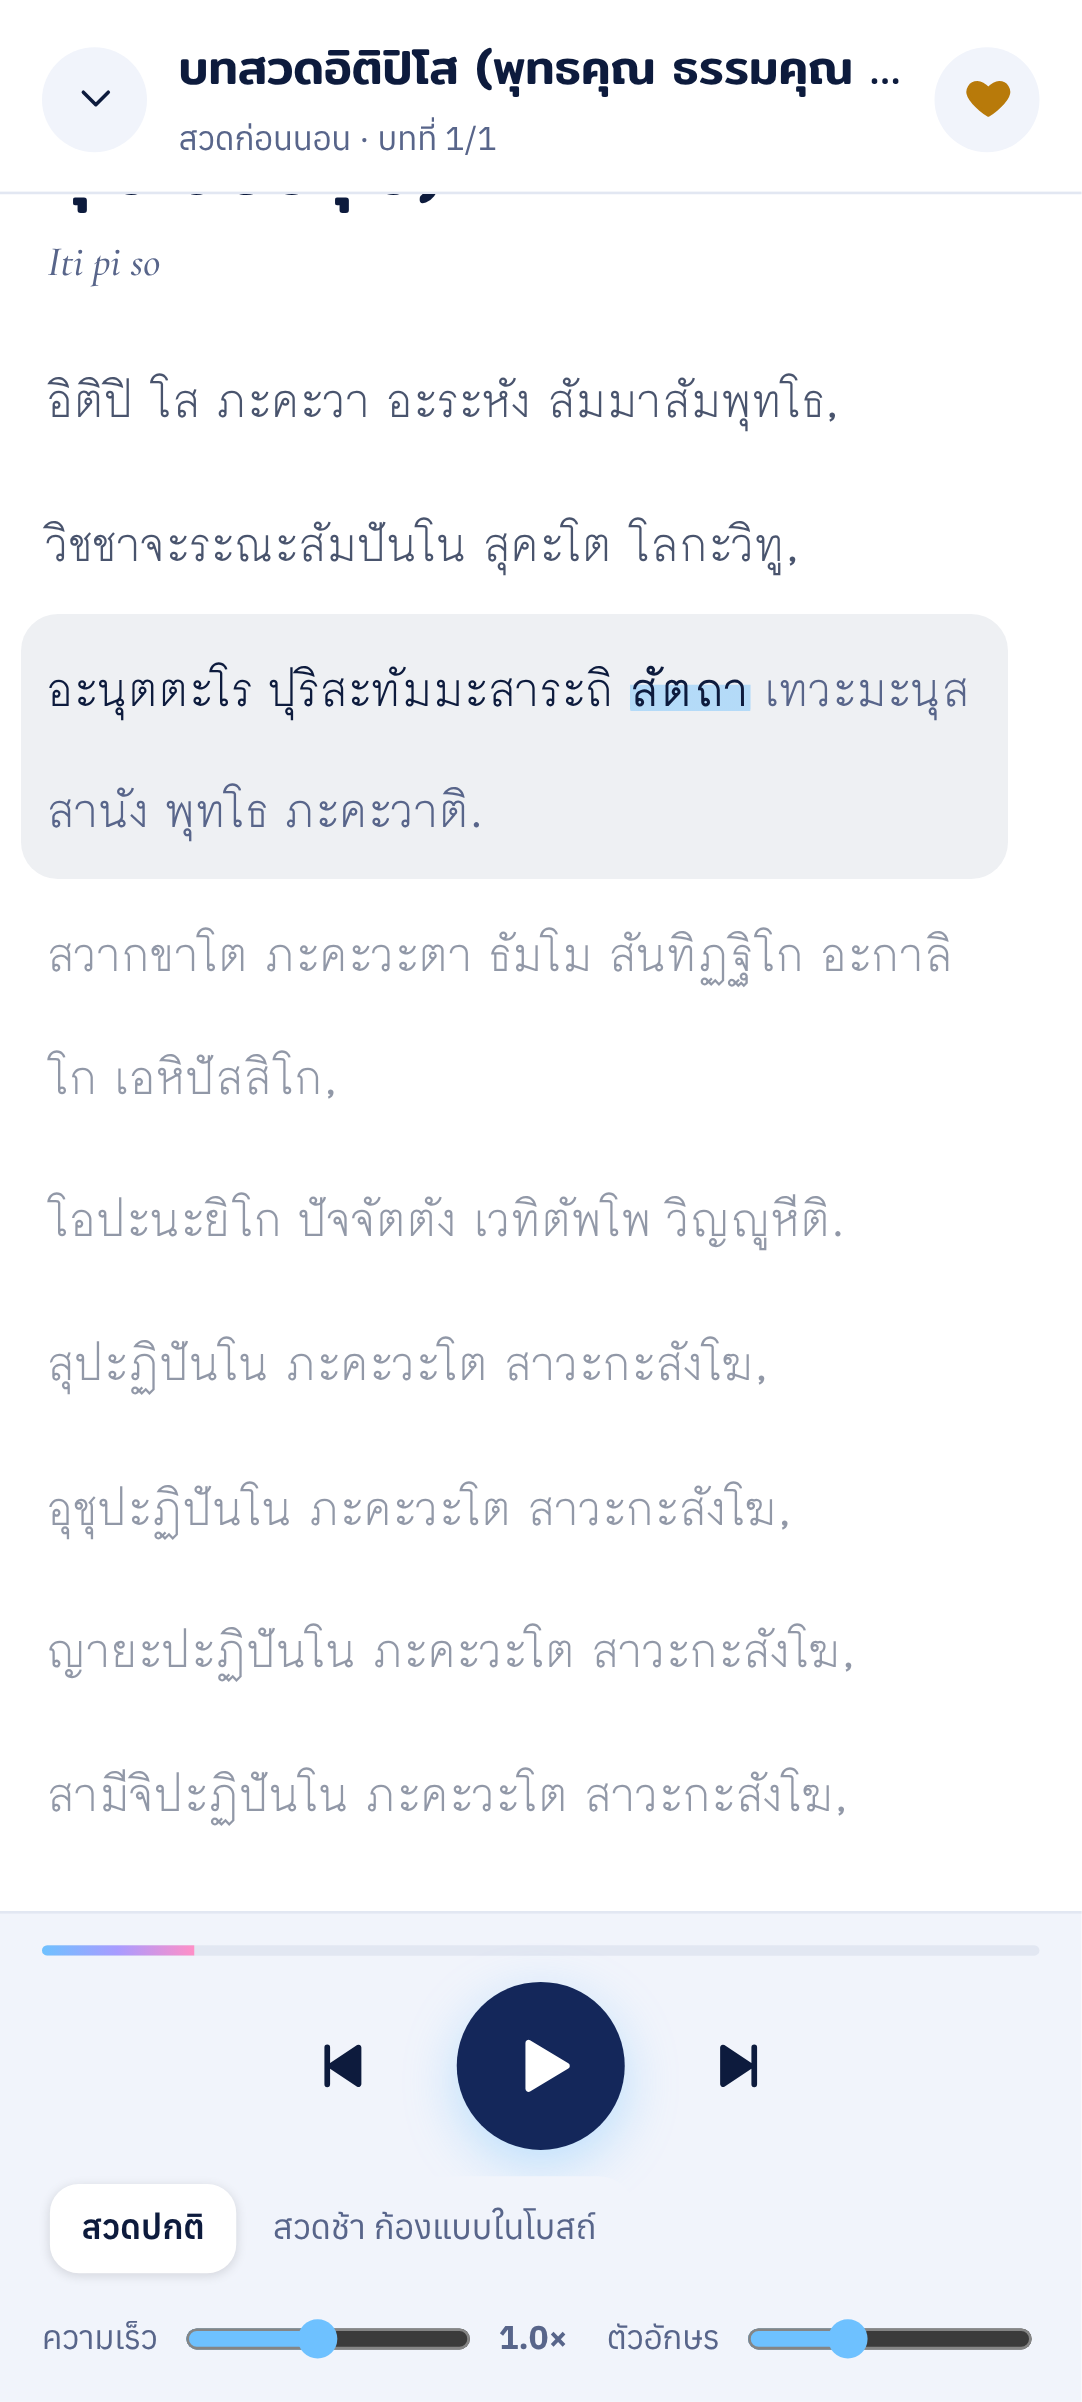
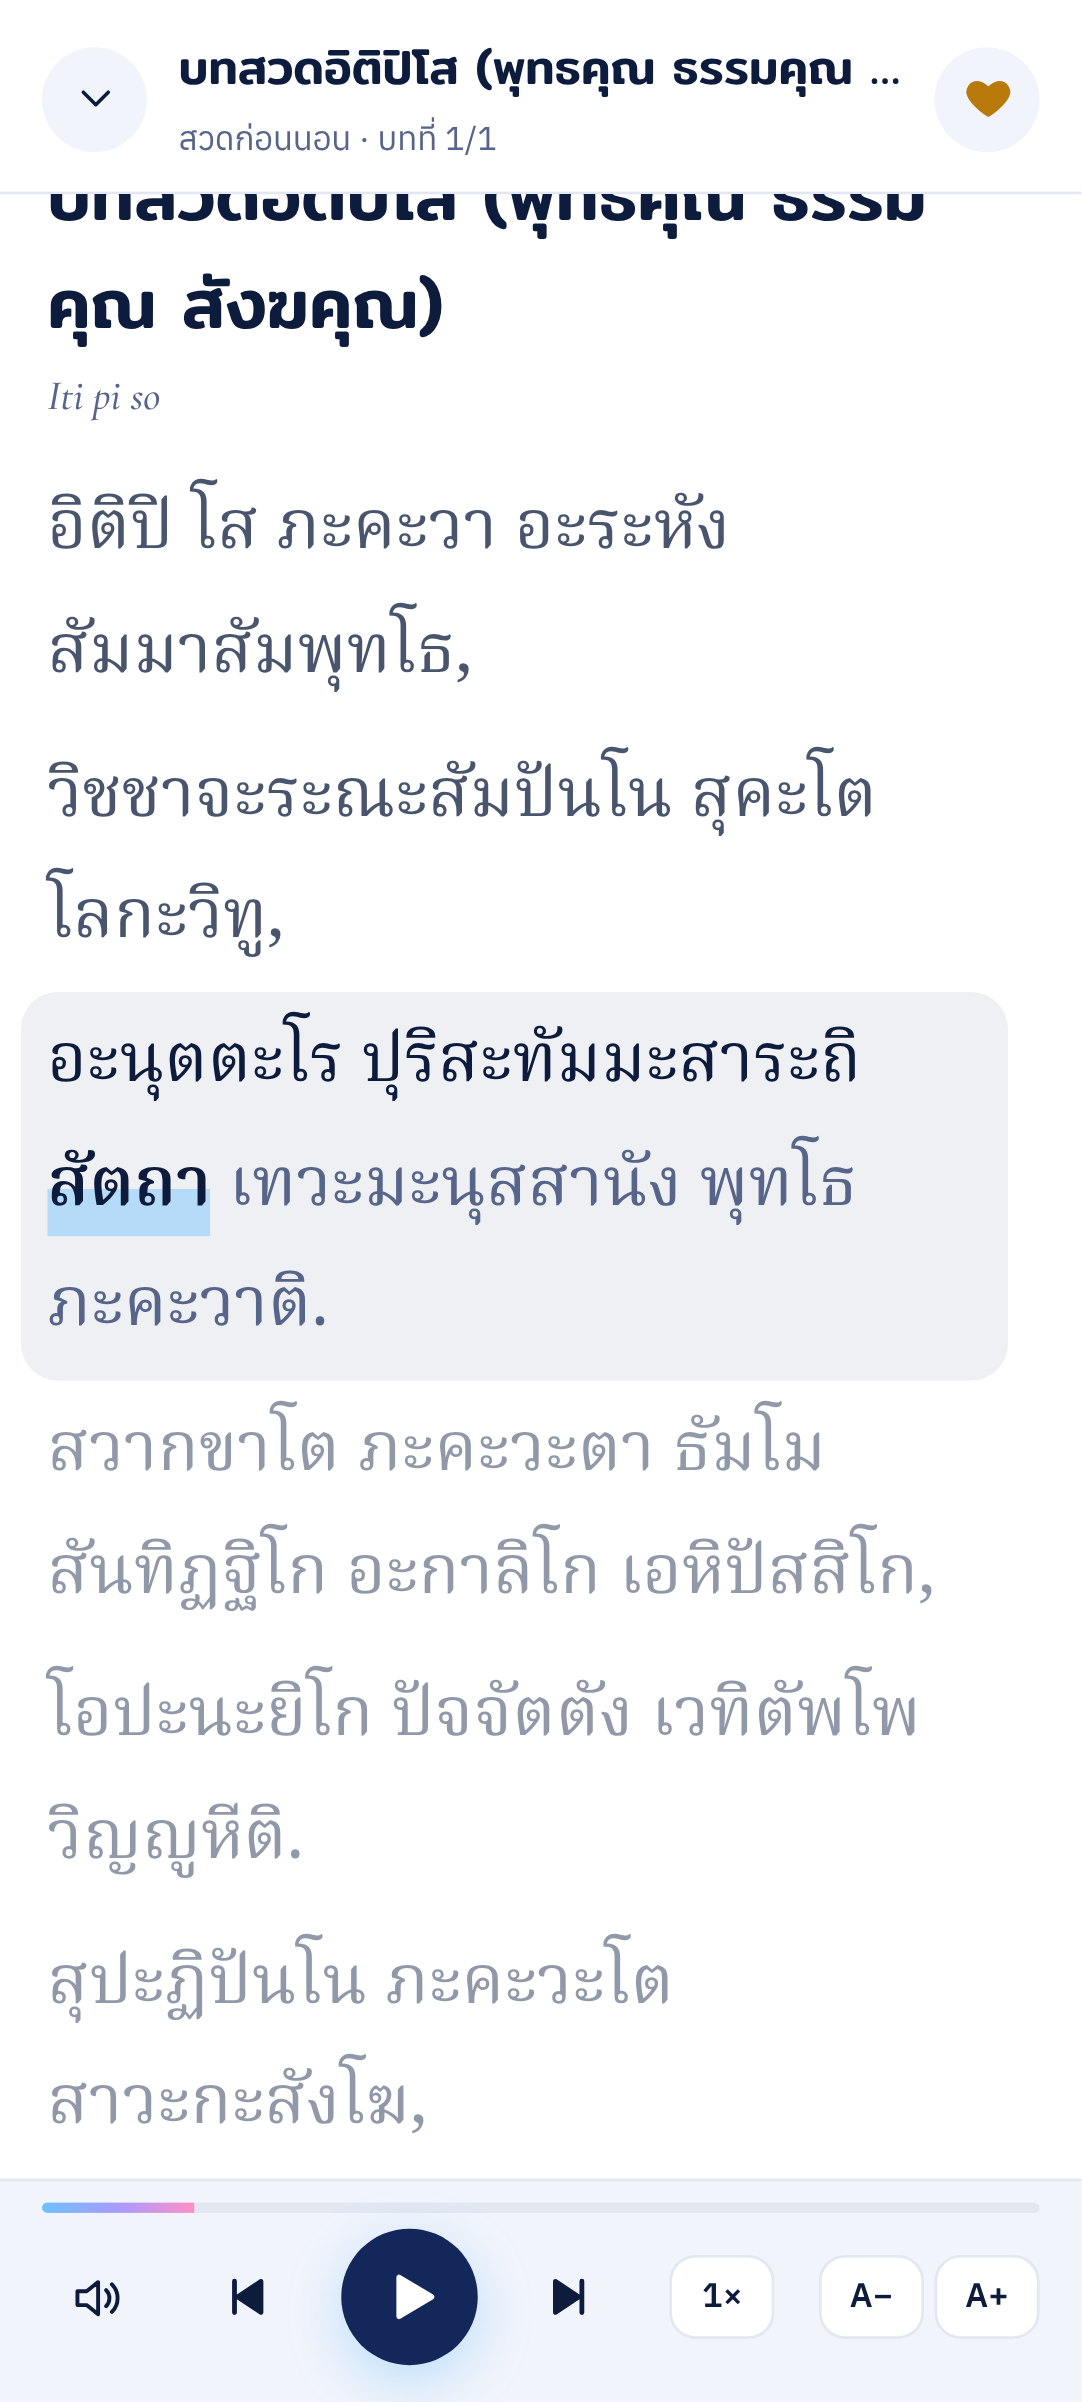
Keep chant words whole when lines wrap; iOS build 2; refreshed store screenshots and copy
Claude-Session: https://claude.ai/code/session_01BuRkCnwUoRencz1tHcS8pV

diff --git a/www/app.css b/www/app.css
@@ -176,7 +176,7 @@ input[type=range]{width:100%;accent-color:var(--sky)}
 .ln.note{font-family:var(--f-body);font-size:calc(var(--fs) * .62);color:var(--ink2);opacity:.9}
 .ln.act{opacity:1;background:var(--hl)}
 .ln.past{opacity:.75}
-.ln .w{transition:color .25s,background-size .35s;border-radius:4px;background:linear-gradient(var(--mark),var(--mark)) no-repeat 0 85%/0 40%}
+.ln .w{display:inline-block;max-width:100%;transition:color .25s,background-size .35s;border-radius:4px;background:linear-gradient(var(--mark),var(--mark)) no-repeat 0 85%/0 40%}
 .ln.act .w{color:var(--fg2)}
 .ln.act .w.done{color:var(--fg)}
 .ln.act .w.on{color:var(--fg);background-size:100% 40%;font-weight:600}
